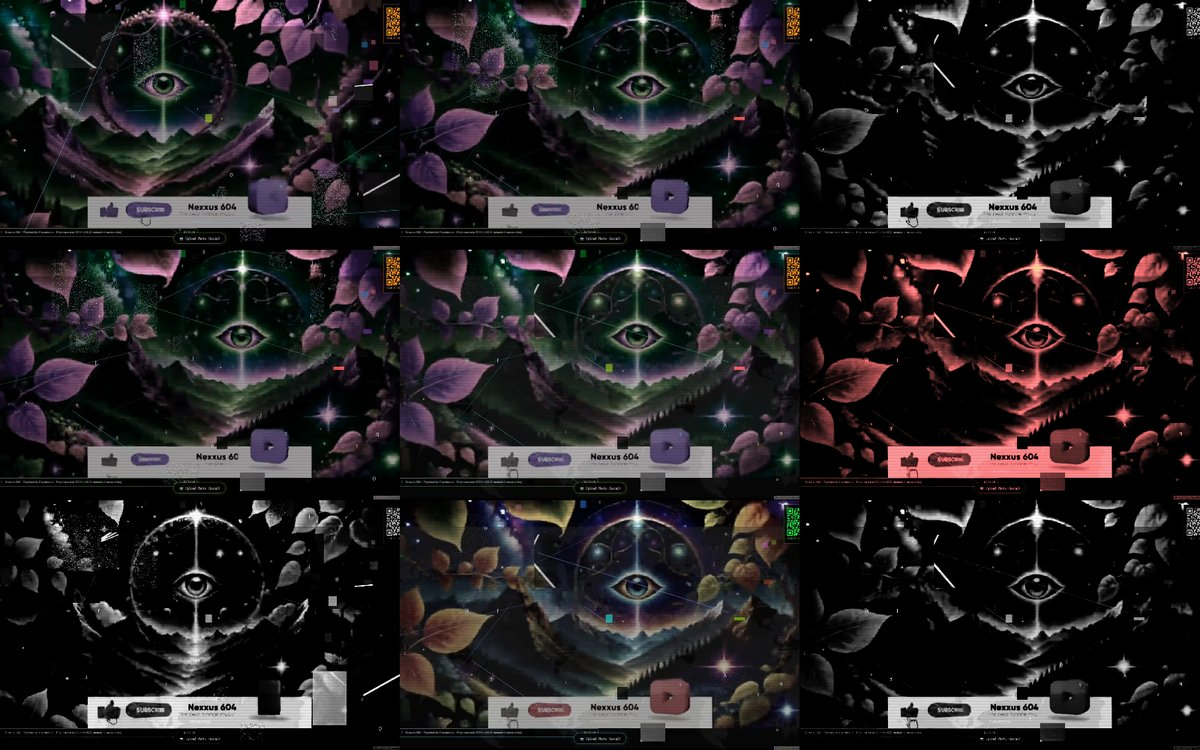
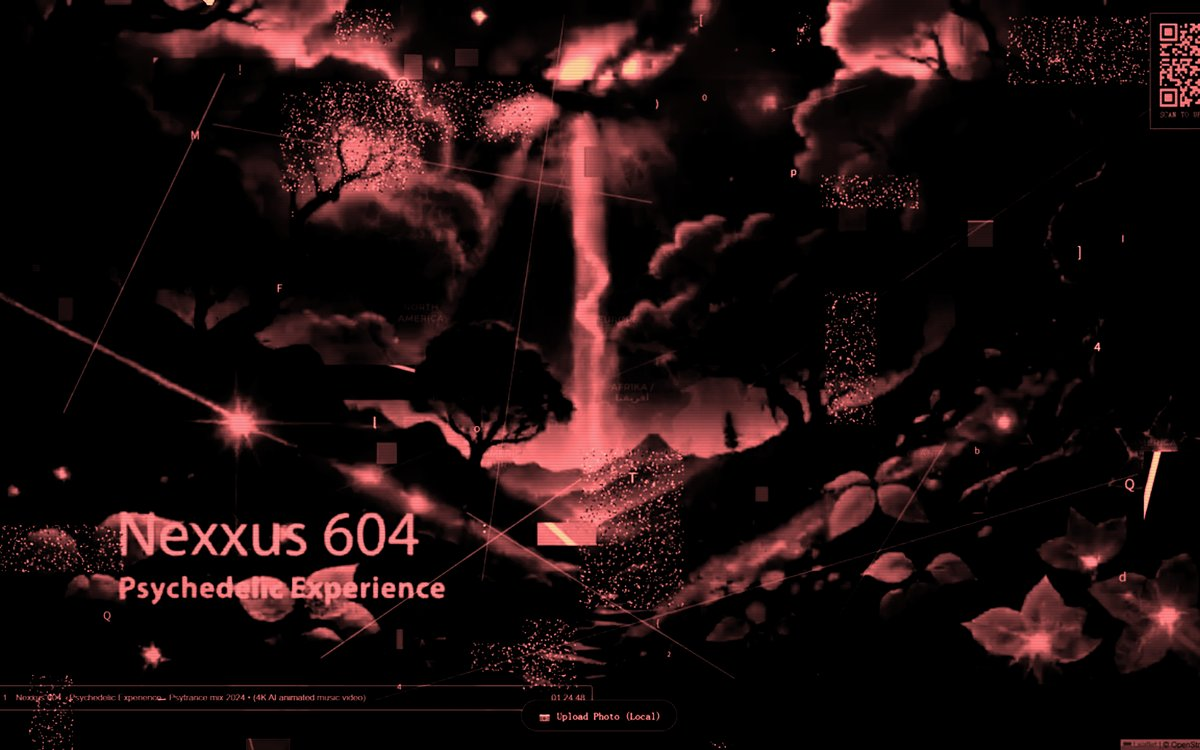
Adjust art entries: new One Channel screenshot, drop Rémanent image and Paris Data Art link

diff --git a/interests/index.html b/interests/index.html
@@ -40,19 +40,17 @@
 								<h4>There Is Only One Channel</h4>
 								<p class="subtitle">Experimental moving image · Web art</p>
 								<p>A browser-based moving-image experiment exploring repetition, fragmentation, and the experience of viewing images on a screen.</p>
-								<span class="image fit"><img src="/images/art/one-channel.jpg" alt="Screenshot of There Is Only One Channel: a three-by-three grid of the same video frame in different colour treatments" /></span>
+								<span class="image fit"><img src="/images/art/one-channel.jpg" alt="Screenshot of There Is Only One Channel: a video frame tinted red and overlaid with lines, noise and scattered characters" /></span>
 								<p class="entry-links"><a href="https://xiao98.github.io/web-art/" aria-label="View There Is Only One Channel online">View online</a></p>
 
 								<h4>Paris Data Art</h4>
 								<p class="subtitle">Digital art · Urban representation</p>
 								<p>An exploration of urban space through digital imagery and computational visual expression.</p>
 								<span class="image fit"><img src="/images/art/paris-data-art.jpg" alt="Screenshot of Paris Data Art: red lines, noise-filled rectangles and green binary digits on a black background" /></span>
-								<p class="entry-links"><a href="https://arts-projet1-metropole-carte.vercel.app/tree.html" aria-label="View Paris Data Art online">View online</a></p>
 
 								<h4>Le Rémanent</h4>
 								<p class="subtitle">Text and image · Web</p>
 								<p>A web piece in French and Chinese about a world without people, in which made things exist because that world grows them by itself.</p>
-								<span class="image fit"><img src="/images/art/remanent.jpg" alt="Screenshot of Le Rémanent: a title, a photograph of an empty path between trees, and text in French and Chinese" /></span>
 								<p class="entry-links"><a href="https://remanent-chi.vercel.app/" aria-label="View Le Rémanent online">View online</a></p>
 
 								<p>Across these interests, I return to questions about perception, creativity, and the relationship between technical systems and visual experience.</p>
